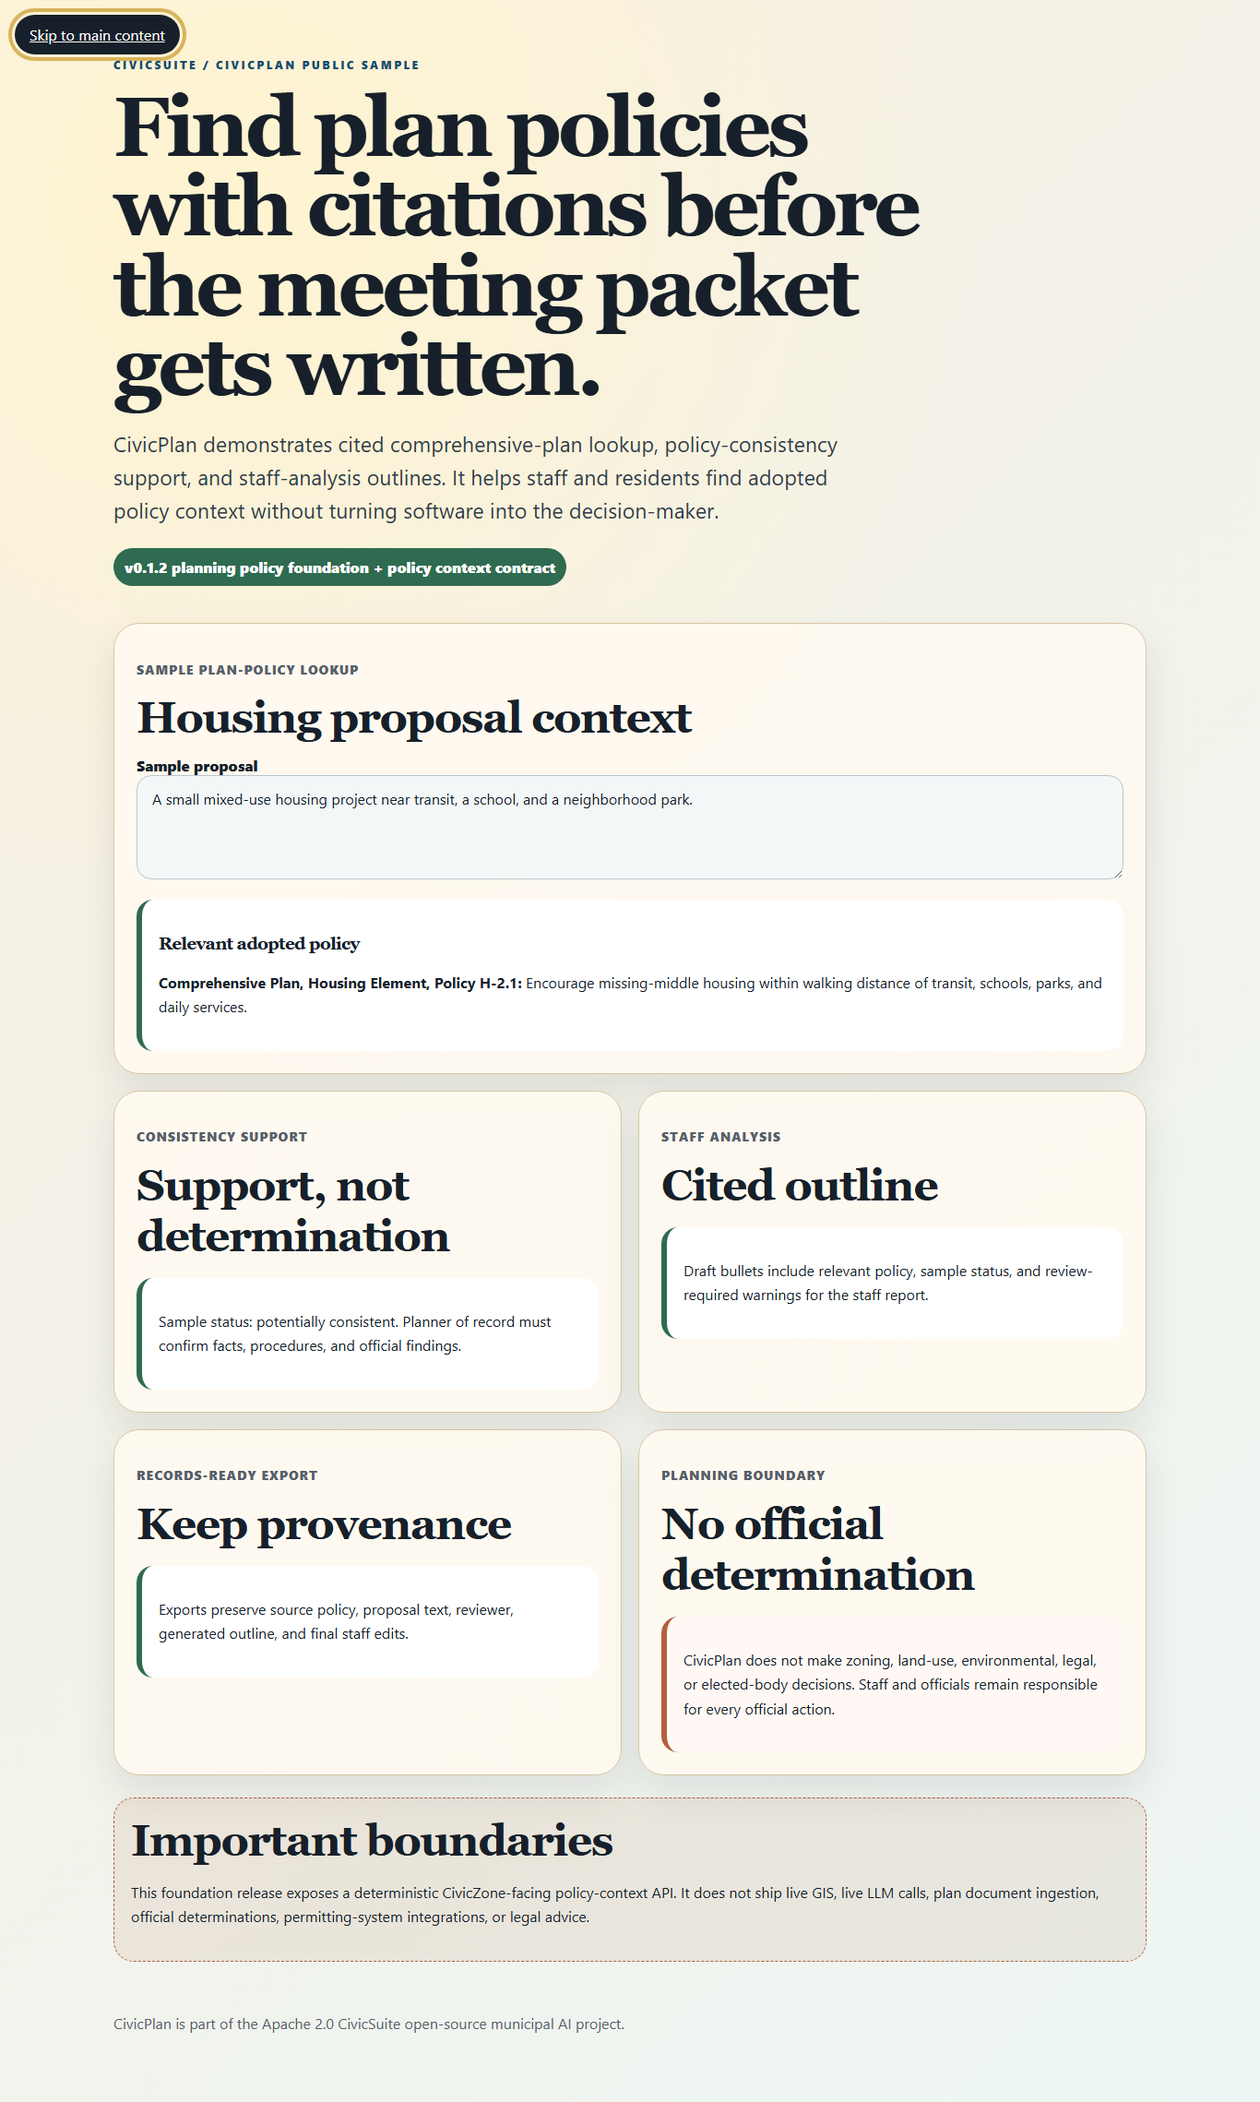
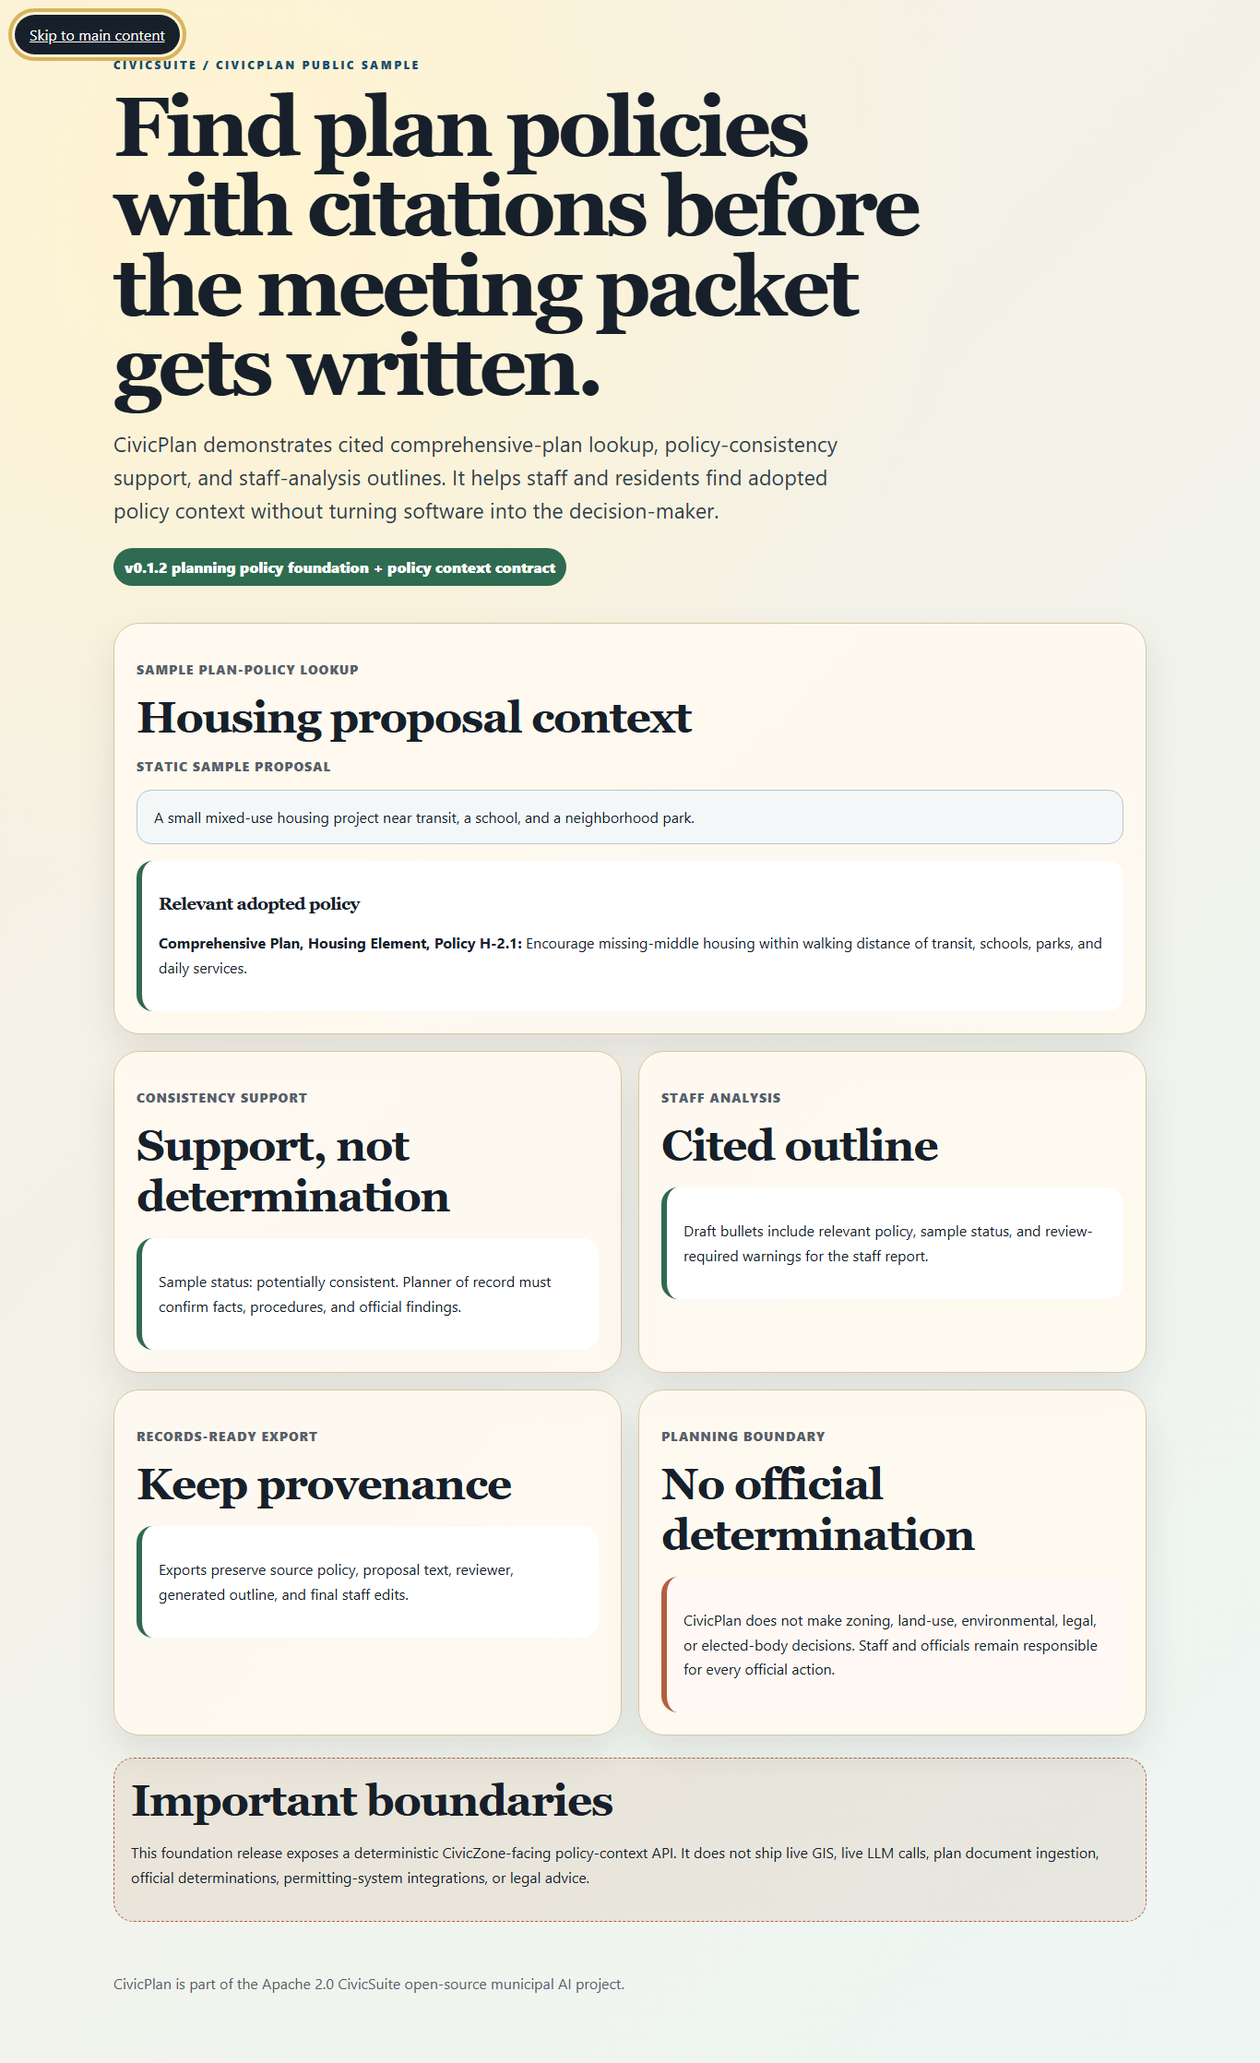
Close CivicPlan release-gate audit findings

diff --git a/civicplan/main.py b/civicplan/main.py
@@ -1,9 +1,10 @@
 """FastAPI runtime foundation for CivicPlan."""
 
 import os
+from typing import Annotated
 
 from civiccore import __version__ as CIVICCORE_VERSION
-from fastapi import FastAPI, HTTPException, Request
+from fastapi import FastAPI, Header, HTTPException, Request
 from fastapi.exceptions import RequestValidationError
 from fastapi.responses import HTMLResponse, JSONResponse
 from pydantic import BaseModel, Field
@@ -28,8 +29,8 @@ _policy_db_url: str | None = None
 
 
 class PolicyLookupRequest(BaseModel):
-    topic: str
-    plan_type: str = "comprehensive"
+    topic: str = Field(min_length=1, max_length=500)
+    plan_type: str = Field(default="comprehensive", min_length=1, max_length=120)
 
 
 class ZoningPolicyContextRequest(BaseModel):
@@ -43,20 +44,20 @@ class ZoningPolicyContextRequest(BaseModel):
 
 
 class ConsistencyRequest(BaseModel):
-    proposal: str
-    policy_id: str
+    proposal: str = Field(min_length=1, max_length=5000)
+    policy_id: str = Field(min_length=1, max_length=160)
 
 
 class StaffAnalysisRequest(BaseModel):
-    project_name: str
-    proposal: str
-    policy_id: str
+    project_name: str = Field(min_length=1, max_length=500)
+    proposal: str = Field(min_length=1, max_length=5000)
+    policy_id: str = Field(min_length=1, max_length=160)
 
 
 class PolicyExportRequest(BaseModel):
-    title: str
-    policy_id: str
-    format: str = "markdown"
+    title: str = Field(min_length=1, max_length=500)
+    policy_id: str = Field(min_length=1, max_length=160)
+    format: str = Field(default="markdown", min_length=1, max_length=40)
 
 
 @app.get("/")
@@ -164,8 +165,12 @@ def consistency_check(request: ConsistencyRequest) -> dict[str, object]:
 
 
 @app.post("/api/v1/civicplan/staff-analysis/draft")
-def staff_analysis(request: StaffAnalysisRequest) -> dict[str, object]:
+def staff_analysis(
+    request: StaffAnalysisRequest,
+    x_civicplan_role: Annotated[str | None, Header()] = None,
+) -> dict[str, object]:
     if _policy_database_url() is not None:
+        _require_staff_role(x_civicplan_role)
         stored = _get_policy_repository().create_staff_analysis(
             project_name=request.project_name,
             proposal=request.proposal,
@@ -184,7 +189,10 @@ def staff_analysis(request: StaffAnalysisRequest) -> dict[str, object]:
 
 
 @app.get("/api/v1/civicplan/staff-analysis/{analysis_id}")
-def get_staff_analysis(analysis_id: str) -> dict[str, object]:
+def get_staff_analysis(
+    analysis_id: str,
+    x_civicplan_role: Annotated[str | None, Header()] = None,
+) -> dict[str, object]:
     if _policy_database_url() is None:
         raise HTTPException(
             status_code=503,
@@ -193,6 +201,7 @@ def get_staff_analysis(analysis_id: str) -> dict[str, object]:
                 "fix": "Set CIVICPLAN_POLICY_DB_URL to retrieve persisted staff-analysis records.",
             },
         )
+    _require_staff_role(x_civicplan_role)
     stored = _get_policy_repository().get_staff_analysis(analysis_id)
     if stored is None:
         raise HTTPException(
@@ -232,6 +241,18 @@ def _dispose_policy_repository() -> None:
     if _policy_repository is not None:
         _policy_repository.engine.dispose()
         _policy_repository = None
+
+
+def _require_staff_role(role: str | None) -> None:
+    if role == "staff":
+        return
+    raise HTTPException(
+        status_code=403,
+        detail={
+            "message": "Persisted CivicPlan staff-analysis records require staff access.",
+            "fix": "Send X-CivicPlan-Role: staff from a trusted staff or service workflow when policy persistence is enabled.",
+        },
+    )
 
 
 def _lookup_plan_policy(*, topic: str, plan_type: str = "comprehensive"):

diff --git a/tests/test_production_depth_policy_persistence.py b/tests/test_production_depth_policy_persistence.py
@@ -32,7 +32,7 @@ def test_policy_and_staff_analysis_records_persist(tmp_path) -> None:
     assert reloaded_analysis is not None
     assert reloaded_analysis.heading == "Plan consistency context for Maple Avenue Homes"
     assert "Comprehensive Plan, Housing Element, Policy H-2.1" in reloaded_analysis.citations
-    db_path.unlink()
+    db_path.unlink(missing_ok=True)
 
 
 def test_api_uses_configured_policy_database(monkeypatch, tmp_path) -> None:
@@ -51,9 +51,13 @@ def test_api_uses_configured_policy_database(monkeypatch, tmp_path) -> None:
                 "proposal": "Housing near transit and sidewalks.",
                 "policy_id": "housing",
             },
+            headers={"X-CivicPlan-Role": "staff"},
         )
         analysis_id = create_response.json()["analysis_id"]
-        get_response = client.get(f"/api/v1/civicplan/staff-analysis/{analysis_id}")
+        get_response = client.get(
+            f"/api/v1/civicplan/staff-analysis/{analysis_id}",
+            headers={"X-CivicPlan-Role": "staff"},
+        )
     finally:
         main_module._dispose_policy_repository()
         main_module._policy_db_url = None
@@ -65,7 +69,56 @@ def test_api_uses_configured_policy_database(monkeypatch, tmp_path) -> None:
     assert get_response.status_code == 200
     assert get_response.json()["analysis_id"] == analysis_id
     assert get_response.json()["review_required"] is True
-    db_path.unlink()
+    db_path.unlink(missing_ok=True)
+
+
+def test_persisted_staff_analysis_requires_staff_role(monkeypatch, tmp_path) -> None:
+    db_path = tmp_path / "staff-auth.db"
+    monkeypatch.setenv("CIVICPLAN_POLICY_DB_URL", f"sqlite:///{db_path}")
+
+    try:
+        create_response = client.post(
+            "/api/v1/civicplan/staff-analysis/draft",
+            json={
+                "project_name": "Maple Avenue Homes",
+                "proposal": "CONFIDENTIAL: acquire parcel 123 before public notice.",
+                "policy_id": "housing",
+            },
+        )
+        get_response = client.get("/api/v1/civicplan/staff-analysis/not-authorized")
+    finally:
+        main_module._dispose_policy_repository()
+        main_module._policy_db_url = None
+
+    assert create_response.status_code == 403
+    assert get_response.status_code == 403
+    assert "X-CivicPlan-Role: staff" in create_response.json()["detail"]["fix"]
+    db_path.unlink(missing_ok=True)
+
+
+def test_staff_analysis_rejects_oversized_persisted_proposal(monkeypatch, tmp_path) -> None:
+    db_path = tmp_path / "staff-validation.db"
+    monkeypatch.setenv("CIVICPLAN_POLICY_DB_URL", f"sqlite:///{db_path}")
+
+    try:
+        response = client.post(
+            "/api/v1/civicplan/staff-analysis/draft",
+            json={
+                "project_name": "Maple Avenue Homes",
+                "proposal": "x" * 5001,
+                "policy_id": "housing",
+            },
+            headers={"X-CivicPlan-Role": "staff"},
+        )
+    finally:
+        main_module._dispose_policy_repository()
+        main_module._policy_db_url = None
+
+    assert response.status_code == 422
+    detail = response.json()["detail"]
+    assert "proposal" in detail["fields"]
+    assert "fields array" in detail["fix"]
+    db_path.unlink(missing_ok=True)
 
 
 def test_zoning_context_api_uses_configured_policy_database(monkeypatch, tmp_path) -> None:

diff --git a/civicplan/public_ui.py b/civicplan/public_ui.py
@@ -30,9 +30,7 @@ def render_public_lookup_page() -> str:
   h2,h3 { font-family:Georgia,"Times New Roman",serif; letter-spacing:-.03em; }
   h2 { margin:0 0 14px; font-size:clamp(1.8rem,4vw,3rem); }
   p, li { line-height:1.65; }
-  label { font-weight:800; }
-  textarea, input { width:100%; border:1px solid #b9c6cc; border-radius:16px; padding:.85rem 1rem; font:inherit; }
-  textarea, input { background:#f3f7f8; color:var(--ink); }
+  .sample-box { padding:18px; border:1px solid #b9c6cc; border-radius:16px; background:#f3f7f8; color:var(--ink); }
   .result { margin-top:18px; padding:18px; border-left:6px solid var(--green); border-radius:18px; background:white; }
   .warning { border-left-color:#b2603f; background:#fff8f4; }
   .kicker { color:var(--muted); font-size:.86rem; font-weight:900; letter-spacing:.08em; text-transform:uppercase; }
@@ -55,8 +53,8 @@ def render_public_lookup_page() -> str:
     <article class="card large">
       <p class="kicker">Sample plan-policy lookup</p>
       <h2 id="lookup-title">Housing proposal context</h2>
-      <label for="proposal">Sample proposal</label>
-      <textarea id="proposal" rows="4">A small mixed-use housing project near transit, a school, and a neighborhood park.</textarea>
+      <p class="kicker">Static sample proposal</p>
+      <div class="sample-box">A small mixed-use housing project near transit, a school, and a neighborhood park.</div>
       <div class="result" role="status" aria-live="polite">
         <h3>Relevant adopted policy</h3>
         <p><strong>Comprehensive Plan, Housing Element, Policy H-2.1:</strong> Encourage missing-middle housing within walking distance of transit, schools, parks, and daily services.</p>

diff --git a/tests/test_planning_foundation.py b/tests/test_planning_foundation.py
@@ -113,6 +113,18 @@ def test_existing_endpoint_validation_remains_endpoint_neutral() -> None:
     assert "fields array" in detail["fix"]
 
 
+def test_oversized_policy_lookup_validation_is_actionable() -> None:
+    response = client.post(
+        "/api/v1/civicplan/policies/lookup",
+        json={"topic": "x" * 501, "plan_type": "comprehensive"},
+    )
+
+    assert response.status_code == 422
+    detail = response.json()["detail"]
+    assert "topic" in detail["fields"]
+    assert "fields array" in detail["fix"]
+
+
 def test_consistency_and_staff_analysis_apis() -> None:
     consistency = client.post(
         "/api/v1/civicplan/consistency/check",
@@ -143,6 +155,8 @@ def test_public_ui_route_is_accessible_and_honest() -> None:
     assert '<main id="main" tabindex="-1">' in text
     assert "v0.1.2 planning policy foundation + policy context contract" in text
     assert "<button" not in text
+    assert "<textarea" not in text
+    assert "Static sample proposal" in text
     assert "does not make zoning" in text
     assert "official determinations" in text
     assert "certified ADA" not in text

diff --git a/PRODUCTION_DEPTH_ZONE_CONTEXT_CONTRACT_DONE.md b/PRODUCTION_DEPTH_ZONE_CONTEXT_CONTRACT_DONE.md
@@ -11,9 +11,11 @@ Implemented:
 - Uses deterministic sample policy lookup when `CIVICPLAN_POLICY_DB_URL` is unset.
 - Uses persisted policy records when `CIVICPLAN_POLICY_DB_URL` is configured.
 - Returns actionable validation guidance when the required `topic` field is missing or invalid.
+- Adds bounded request-field lengths across public API request models.
 - Keeps existing endpoint validation guidance endpoint-neutral while preserving zoning-specific help on the zoning context endpoint.
 - Scopes persisted policy lookup by `plan_type` and topic/policy match so a configured database cannot return an unrelated policy solely because it shares a plan type.
-- Updated public UI copy to v0.1.2 and removed the static no-op lookup button.
+- Requires `X-CivicPlan-Role: staff` for persisted staff-analysis create/read routes when policy persistence is configured.
+- Updated public UI copy to v0.1.2 and removed static no-op/editable controls from the sample lookup.
 
 Boundary:
 
@@ -22,8 +24,9 @@ Boundary:
 
 Verification:
 
-- `python -m pytest tests\test_planning_foundation.py tests\test_production_depth_policy_persistence.py -q`: 15 passed.
-- `bash scripts/verify-release.sh`: 18 passed, docs gate passed, placeholder import gate passed, Ruff passed, and v0.1.2 artifacts built.
+- `python -m pytest tests\test_planning_foundation.py tests\test_production_depth_policy_persistence.py -q`: 18 passed.
+- `bash scripts/verify-release.sh`: 21 passed, docs gate passed, placeholder import gate passed, Ruff passed, and v0.1.2 artifacts built.
 - `python -m ruff check .`: all checks passed.
 - `bash scripts/verify-docs.sh`: `VERIFY-DOCS: PASSED`.
-- Playwright browser QA covered `docs/index.html` and `/civicplan` at 1366x900 and 390x844 with no console errors, no page errors, no horizontal overflow, and no public UI buttons.
+- Clean Windows venv install with the documented CivicCore wheel prerequisite followed by `python -m pip install -e ".[dev]"`: imported CivicPlan `0.1.2` and CivicCore `1.0.0`.
+- Playwright browser QA covered `docs/index.html` and `/civicplan` at 1366x900 and 390x844 with no console errors, no page errors, no horizontal overflow, no public UI buttons, and no editable static sample fields.

diff --git a/README.md b/README.md
@@ -18,6 +18,7 @@ Current state: **v0.1.2 planning policy foundation release plus production-depth
 ```powershell
 python -m venv .venv
 .\.venv\Scripts\Activate.ps1
+python -m pip install https://github.com/CivicSuite/civiccore/releases/download/v1.0/civiccore-1.0.0-py3-none-any.whl
 python -m pip install -e ".[dev]"
 python -m pytest -q
 bash scripts/verify-release.sh
@@ -31,11 +32,11 @@ bash scripts/verify-release.sh
 - `POST /api/v1/civicplan/policies/lookup` returns a cited sample plan policy.
 - `POST /api/v1/civicplan/context/zoning` returns cited plan-policy context for CivicZone questions.
 - `POST /api/v1/civicplan/consistency/check` returns sample consistency-support factors.
-- `POST /api/v1/civicplan/staff-analysis/draft` returns a cited staff-analysis outline.
-- `GET /api/v1/civicplan/staff-analysis/{analysis_id}` retrieves persisted staff-analysis records when `CIVICPLAN_POLICY_DB_URL` is configured.
+- `POST /api/v1/civicplan/staff-analysis/draft` returns a cited staff-analysis outline; persisted records require `X-CivicPlan-Role: staff` when `CIVICPLAN_POLICY_DB_URL` is configured.
+- `GET /api/v1/civicplan/staff-analysis/{analysis_id}` retrieves persisted staff-analysis records when `CIVICPLAN_POLICY_DB_URL` is configured and `X-CivicPlan-Role: staff` is present.
 - `POST /api/v1/civicplan/export` returns a records-ready plan-policy export checklist.
 
-Set `CIVICPLAN_POLICY_DB_URL` to enable persistent plan-policy and staff-analysis records. When unset, CivicPlan continues to use deterministic in-memory sample data.
+Set `CIVICPLAN_POLICY_DB_URL` to enable persistent plan-policy and staff-analysis records. Persisted staff-analysis create/read routes are staff-only and require `X-CivicPlan-Role: staff` from a trusted staff or service workflow. When unset, CivicPlan continues to use deterministic in-memory sample data.
 
 ## License
 

diff --git a/USER-MANUAL.md b/USER-MANUAL.md
@@ -16,15 +16,16 @@ CivicPlan is a FastAPI Python package pinned to `civiccore==1.0.0`. The current 
 - `POST /api/v1/civicplan/policies/lookup`
 - `POST /api/v1/civicplan/context/zoning`
 - `POST /api/v1/civicplan/consistency/check`
-- `POST /api/v1/civicplan/staff-analysis/draft`
-- `GET /api/v1/civicplan/staff-analysis/{analysis_id}` when `CIVICPLAN_POLICY_DB_URL` is configured
+- `POST /api/v1/civicplan/staff-analysis/draft`; persisted records require `X-CivicPlan-Role: staff` when `CIVICPLAN_POLICY_DB_URL` is configured
+- `GET /api/v1/civicplan/staff-analysis/{analysis_id}` when `CIVICPLAN_POLICY_DB_URL` is configured and `X-CivicPlan-Role: staff` is present
 - `POST /api/v1/civicplan/export`
 
-Set `CIVICPLAN_POLICY_DB_URL` to persist plan-policy records and staff-analysis outlines. Leave it unset for deterministic sample behavior.
+Set `CIVICPLAN_POLICY_DB_URL` to persist plan-policy records and staff-analysis outlines. Persisted staff-analysis create/read routes are staff-only and require `X-CivicPlan-Role: staff` from a trusted staff or service workflow. Leave it unset for deterministic sample behavior.
 
 Run local verification with:
 
 ```powershell
+python -m pip install https://github.com/CivicSuite/civiccore/releases/download/v1.0/civiccore-1.0.0-py3-none-any.whl
 python -m pip install -e ".[dev]"
 python -m pytest -q
 bash scripts/verify-release.sh

diff --git a/CHANGELOG.md b/CHANGELOG.md
@@ -12,11 +12,13 @@ The format follows Keep a Changelog, and this project follows Semantic Versionin
 
 - Production-depth policy persistence slice with `CIVICPLAN_POLICY_DB_URL`, persisted plan-policy records, persisted staff-analysis outlines, and retrieval by `analysis_id`.
 - CivicZone-facing `POST /api/v1/civicplan/context/zoning` contract that returns cited, review-required plan-policy context without making zoning determinations.
+- Staff-role gate for persisted staff-analysis create/read routes when policy persistence is configured.
 
 ### Changed
 
 - Aligned CivicPlan's release gate, CI install path, docs, and health-contract test with the published `civiccore==1.0.0` wheel before the CivicZone policy-context contract sprint.
-- Updated public UI copy to v0.1.2 and removed the static no-op lookup button.
+- Updated public UI copy to v0.1.2 and removed static no-op/editable controls from the sample lookup.
+- Documented the CivicCore v1.0 wheel prerequisite for clean local installs.
 
 ## [0.1.1] - 2026-04-28
 

diff --git a/docs/browser-qa-civicplan-v0.1.2-zone-context-summary.md b/docs/browser-qa-civicplan-v0.1.2-zone-context-summary.md
@@ -6,7 +6,7 @@ Scope:
 
 - `docs/index.html`
 - `/civicplan` public UI generated by `civicplan.public_ui.render_public_lookup_page()`
-- CivicPlan v0.1.2 policy-context contract copy and public UI no-op-control removal
+- CivicPlan v0.1.2 policy-context contract copy and public UI no-op/editable-control removal
 
 Evidence:
 
@@ -19,7 +19,7 @@ Checks:
 
 - Docs page renders the v0.1.2 policy-context badge on desktop and mobile.
 - Public UI renders the v0.1.2 policy-context badge on desktop and mobile.
-- Public UI contains no `<button>` elements, so no static no-op control is presented as an action.
+- Public UI contains no `<button>` or `<textarea>` elements, so no static no-op/editable control is presented as an action.
 - Public-facing copy keeps the shipped/planned boundary: official planning determinations, legal advice, live GIS, live LLM calls, plan ingestion, permitting integrations, and production review queues are not claimed as shipped.
 - Browser console messages: none.
 - Page errors: none.

diff --git a/SECURITY.md b/SECURITY.md
@@ -2,4 +2,6 @@
 
 CivicPlan is early-stage software. Current version: `0.1.2`. Do not deploy it as a system of record until a release explicitly says it is production-ready.
 
+When `CIVICPLAN_POLICY_DB_URL` is configured, persisted staff-analysis create/read routes require `X-CivicPlan-Role: staff` from a trusted staff or service workflow. This header gate is a local release safeguard, not a replacement for production identity, tenant scoping, and audit logging.
+
 Report suspected vulnerabilities privately to the project maintainer. Do not open public issues containing exploit details, secrets, or sensitive municipal data.
